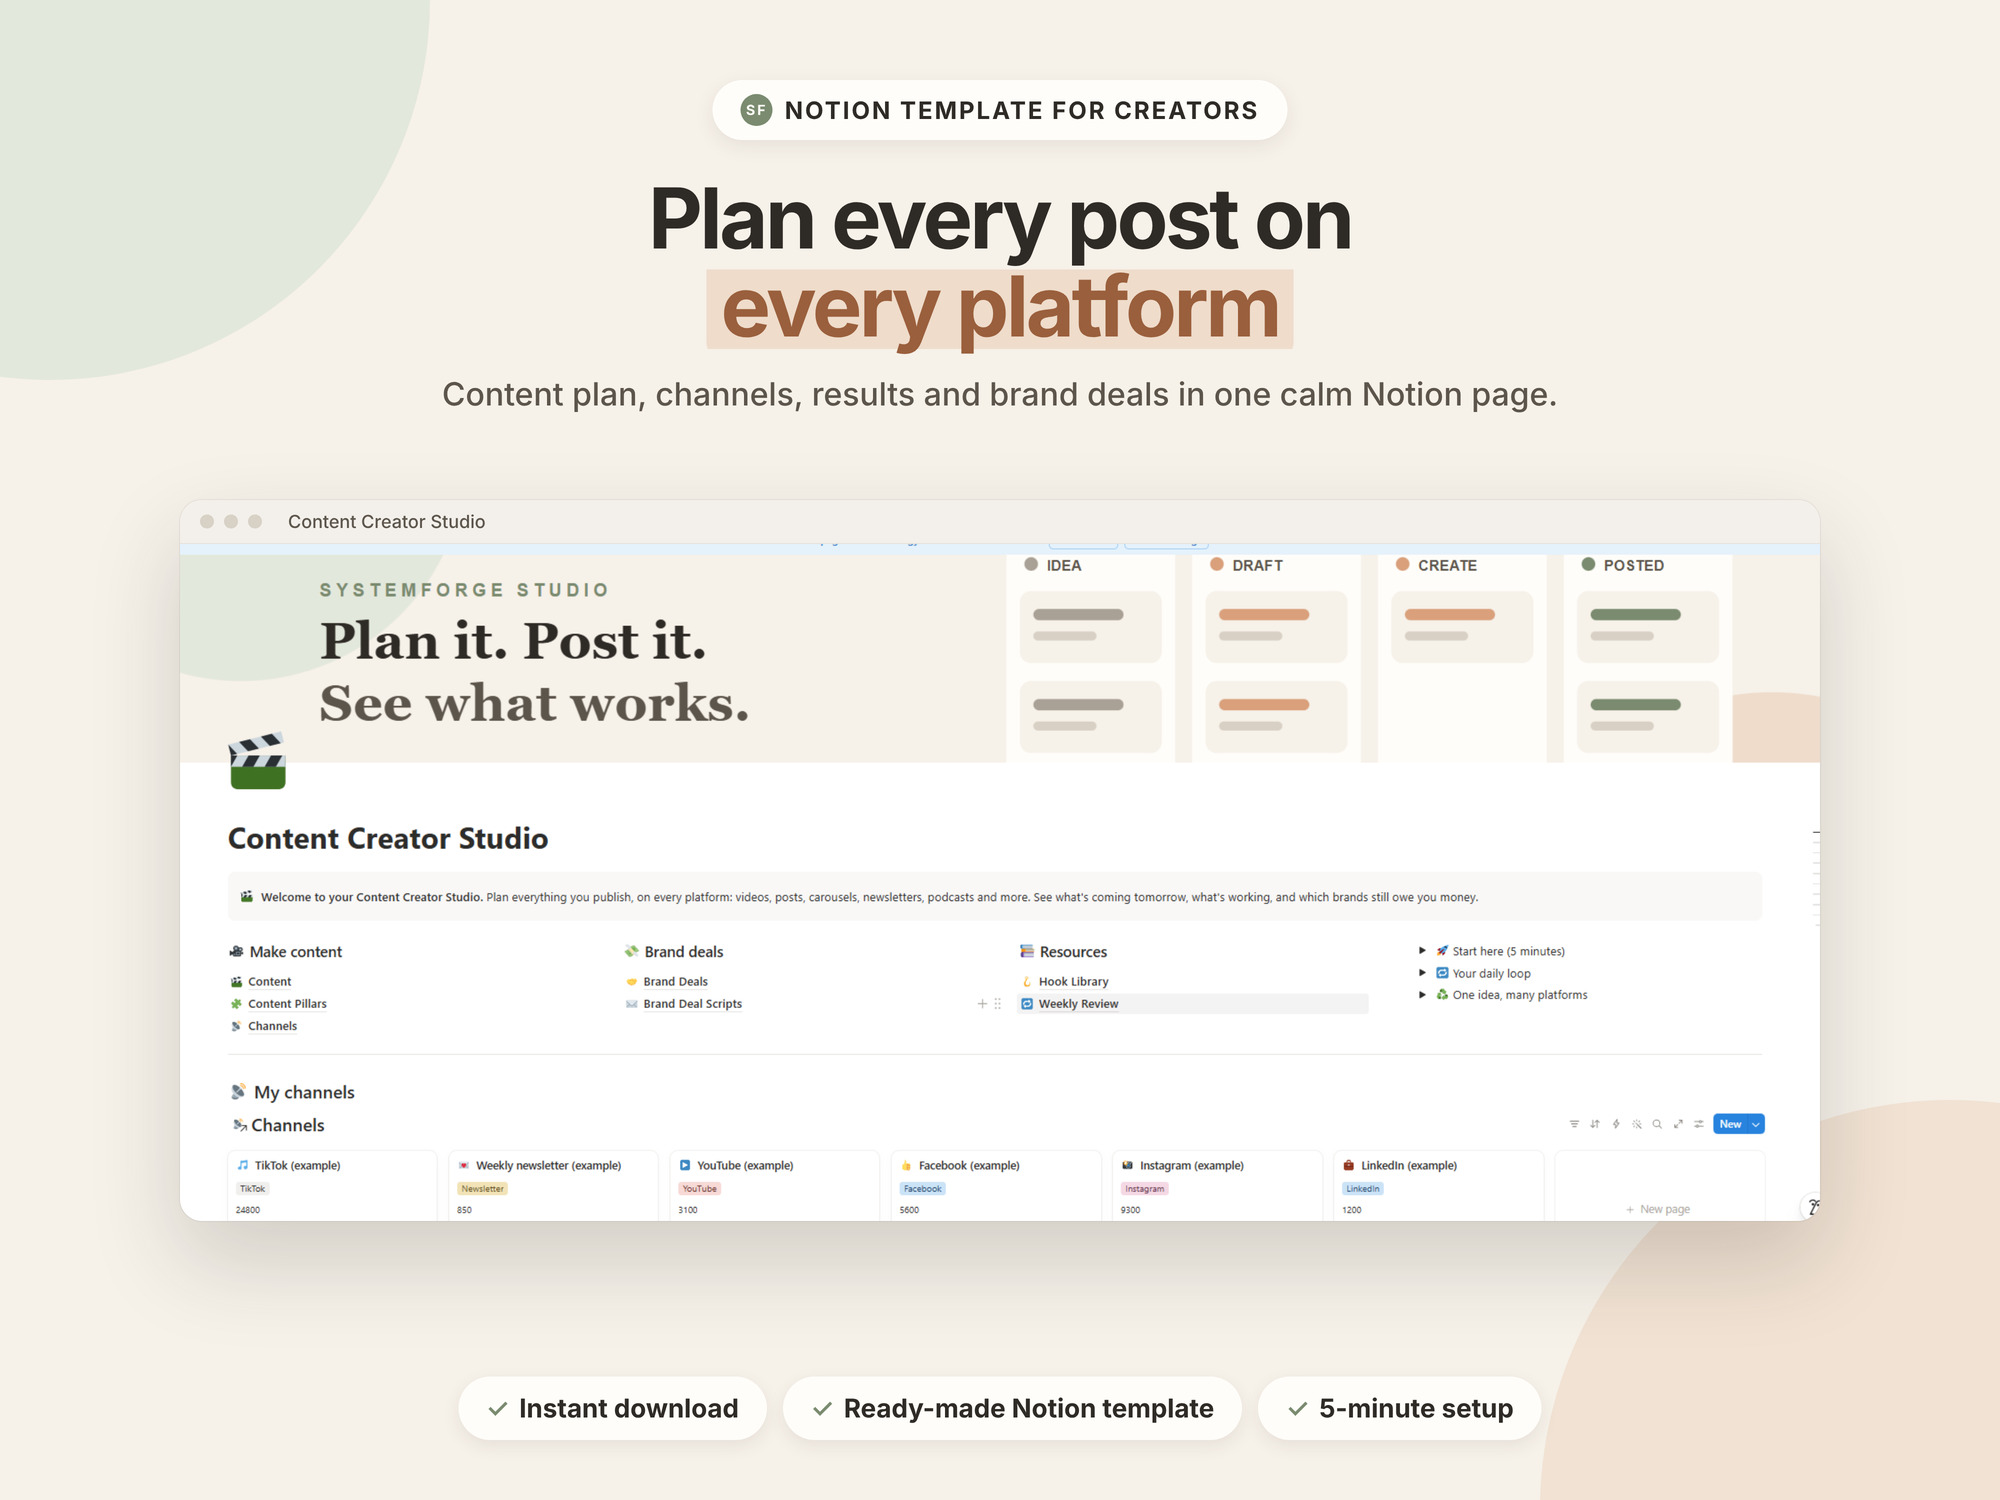
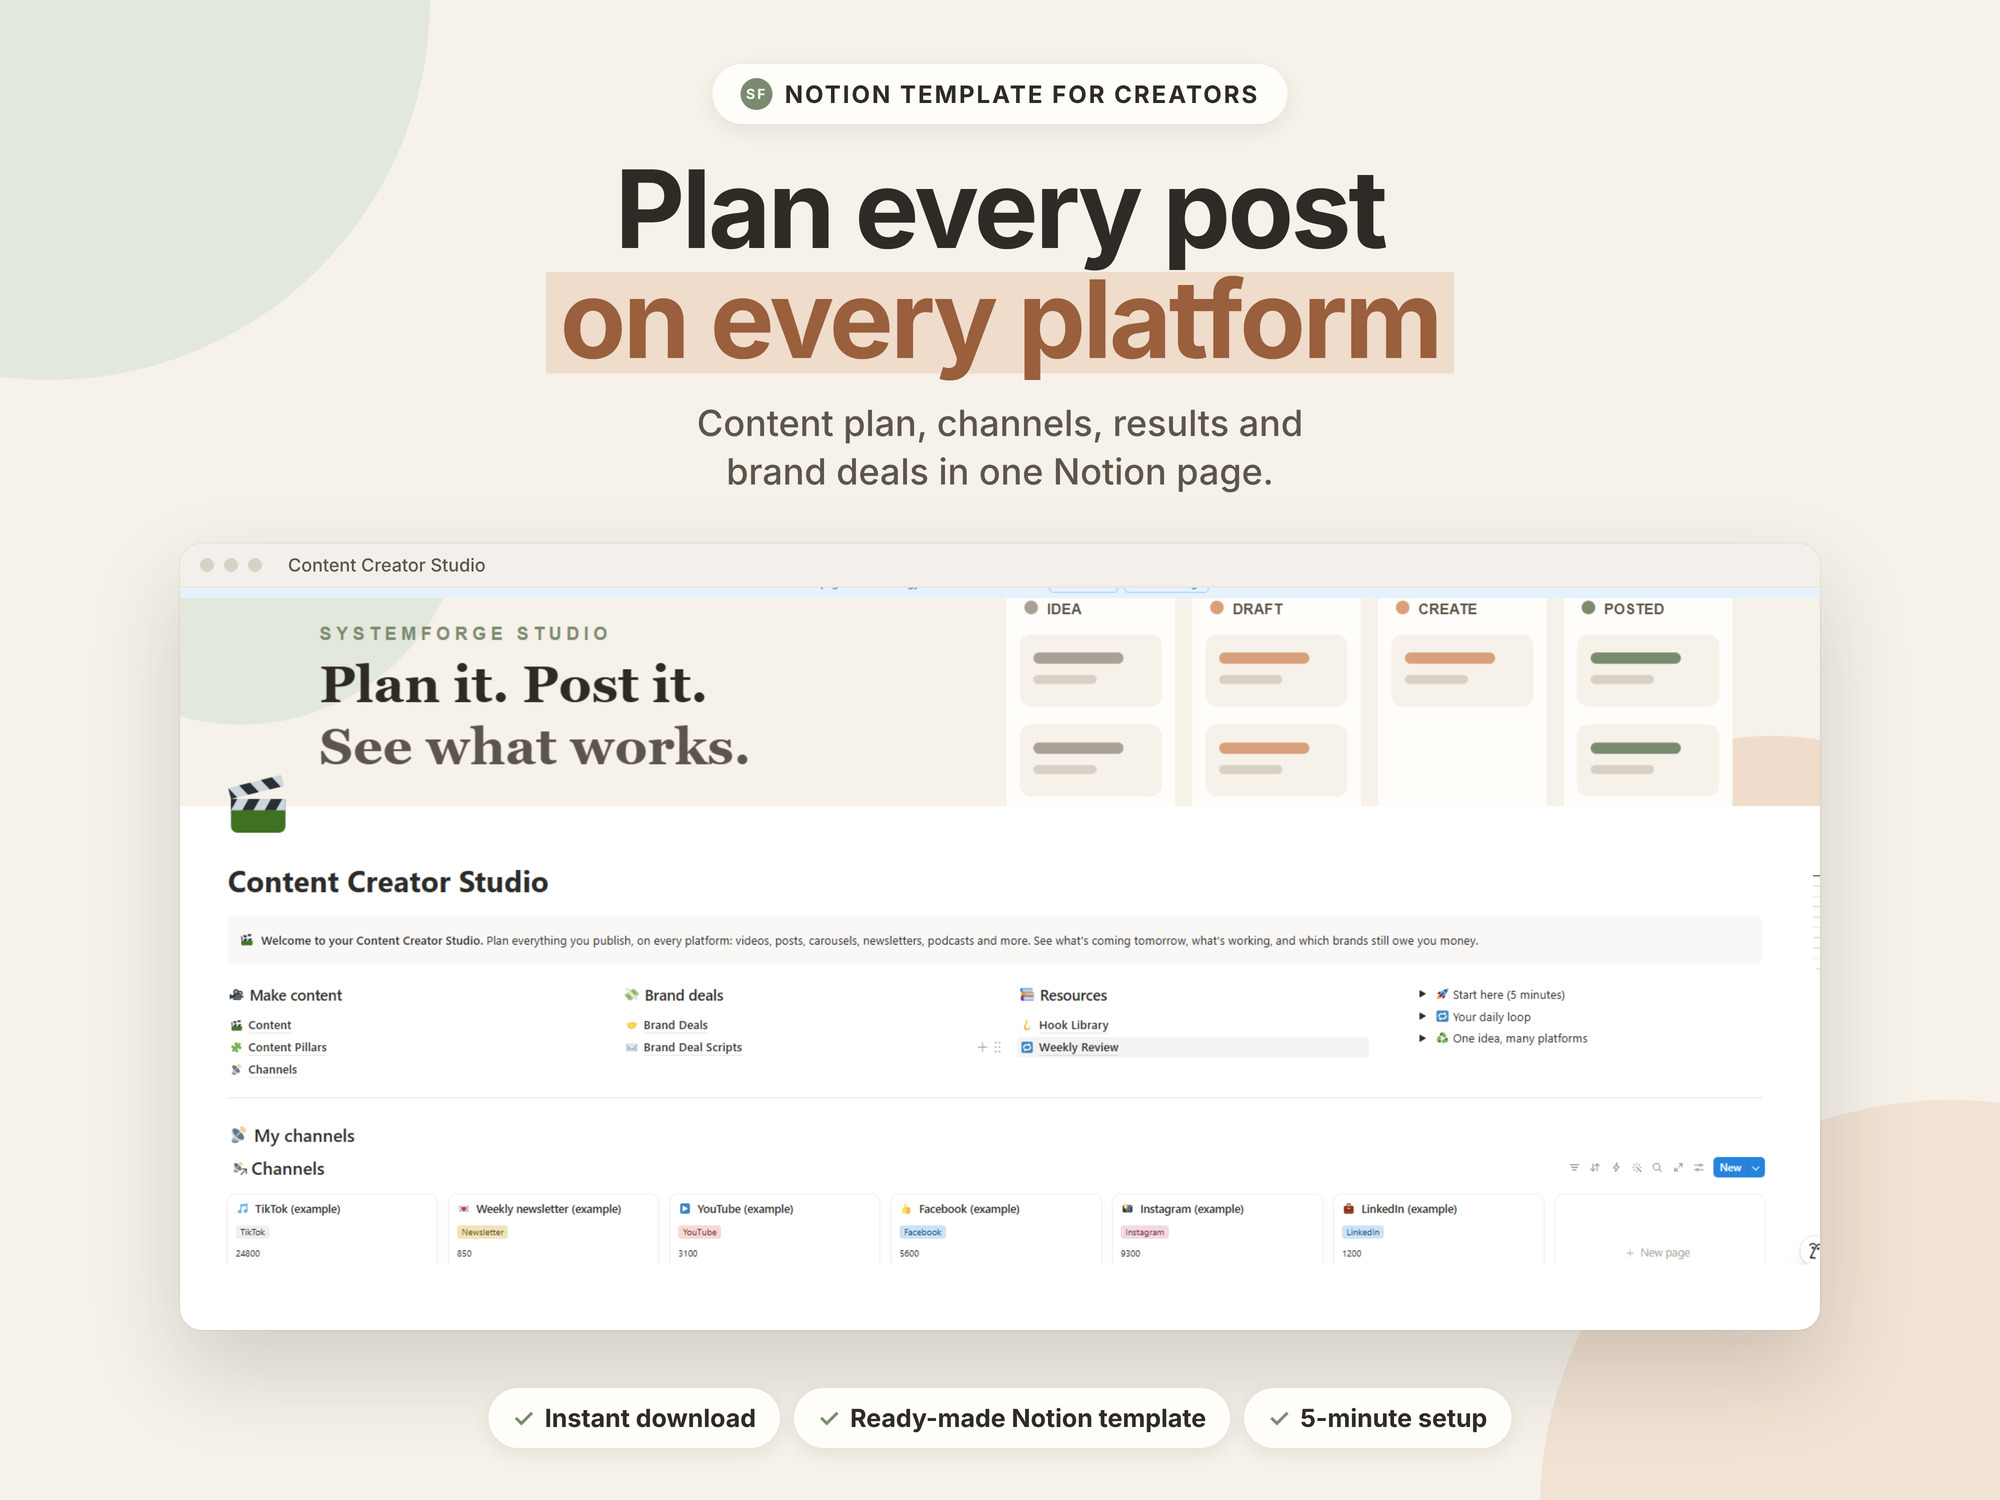
Etsy heroes: keep all text inside the portrait search tile
Claude-Session: https://claude.ai/code/session_01SESvdWYowsCKTnCuHXDcbL

diff --git a/generator/styles/etsy.py b/generator/styles/etsy.py
@@ -78,18 +78,26 @@ def title_html(t):
 
 
 def hero(p, pr, tmp):
+    """Etsy search shows the main photo cropped to a ~4:5 portrait tile (only the middle ~1200px of 2000).
+    So the kicker, title, subtitle and pills stay inside x 420..1580; the screenshot card can run wider."""
     hs = pr['hero']
     path, (cw, ch) = crop(hs['shot'], hs['crop'], tmp, 'hero')
     w = 1640
-    h = round(w * ch / cw)
-    # centered layout: stays readable when Etsy crops the thumbnail to a square
-    body = (f'<div style="position:absolute;left:90px;top:80px;right:90px;text-align:center">'
-            f'<div class="kick"><i>SF</i>{pr["kicker"]}</div>'
-            f'<h1 style="margin-top:34px;font-size:84px">{title_html(hs["title"])}</h1>'
-            f'<div class="sub" style="margin-top:22px;font-size:32px">{hs["sub"]}</div></div>'
-            + card_html(path, (W - w) // 2, 500, w, h, pr['name'])
-            + f'<div class="pills" style="position:absolute;left:0;right:0;bottom:60px;justify-content:center">{"".join(f"<div class=pill>{x}</div>" for x in PILLS)}</div>')
-    return page(body, '.foot{display:none}')
+    css = ('.col{position:absolute;left:0;right:0;top:64px;bottom:170px;display:flex;flex-direction:column;align-items:center;text-align:center}'
+           '.col h1{margin-top:30px;font-size:108px;line-height:1.02;max-width:1160px}'
+           '.col .sub{margin-top:24px;font-size:36px;max-width:1000px;text-wrap:balance}'
+           f'.hc{{margin-top:48px;width:{w}px;flex:1;min-height:0}}'
+           '.hc img{height:auto!important}'
+           '.pills{position:absolute;left:0;right:0;bottom:52px;justify-content:center;gap:14px}'
+           '.pill{font-size:25px;padding:15px 24px}.foot{display:none}')
+    card = card_html(path, 0, 0, w, round(w * ch / cw), pr['name']).replace('position:absolute', 'position:relative').replace(
+        'style="left:0px;top:0px;', 'style="')
+    body = (f'<div class="col"><div class="kick"><i>SF</i>{pr["kicker"]}</div>'
+            f'<h1>{title_html(hs["title"])}</h1>'
+            f'<div class="sub">{hs["sub"]}</div>'
+            f'<div class="hc" style="position:relative">{card.replace("class=\"card\"", "class=\"card\" ", 1)}</div></div>'
+            + f'<div class="pills">{"".join(f"<div class=pill>{x}</div>" for x in PILLS)}</div>')
+    return page(body, css + '.hc .card{height:100%}')
 
 
 def feature(p, pr, f, v2, tmp, n):
